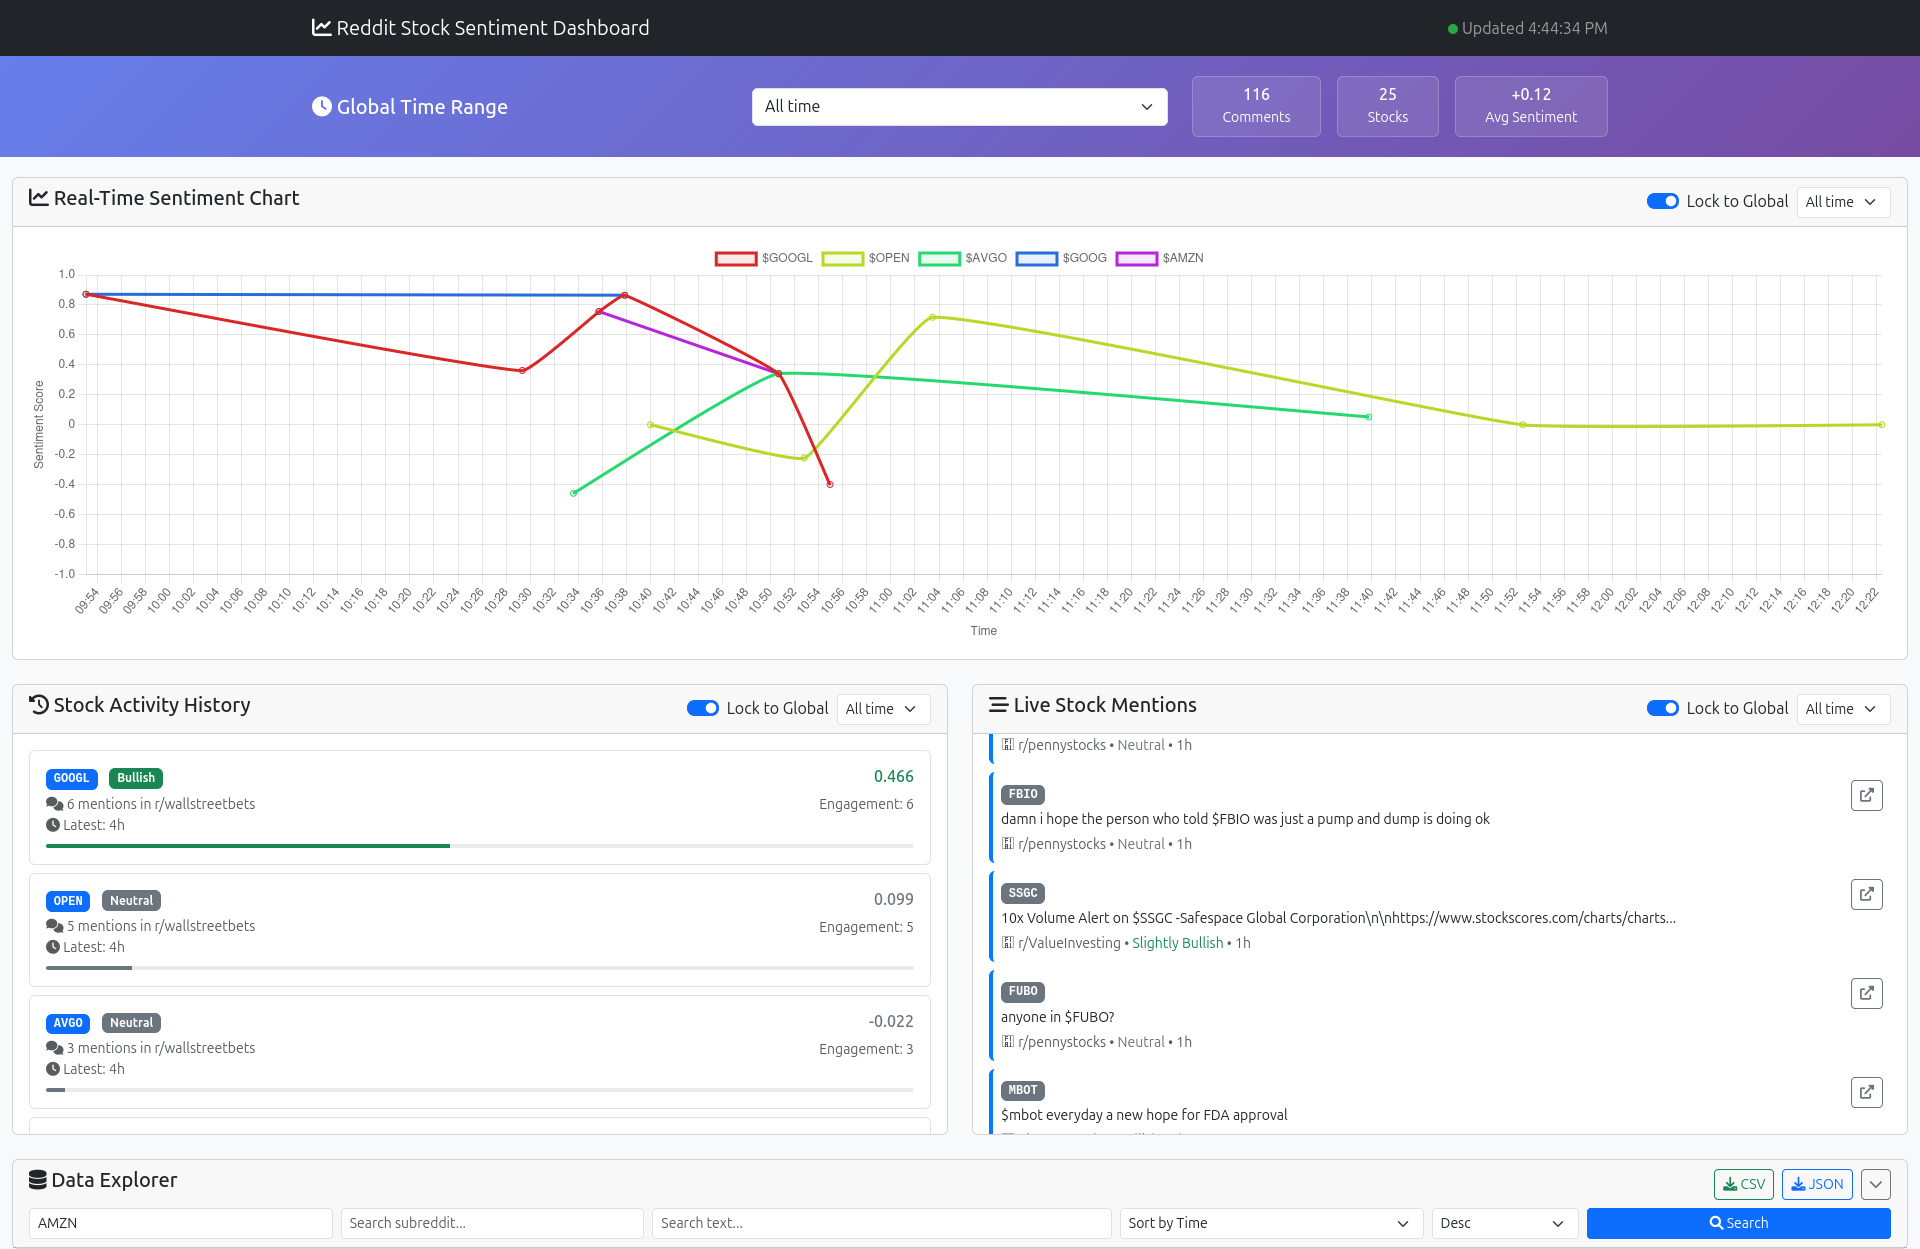
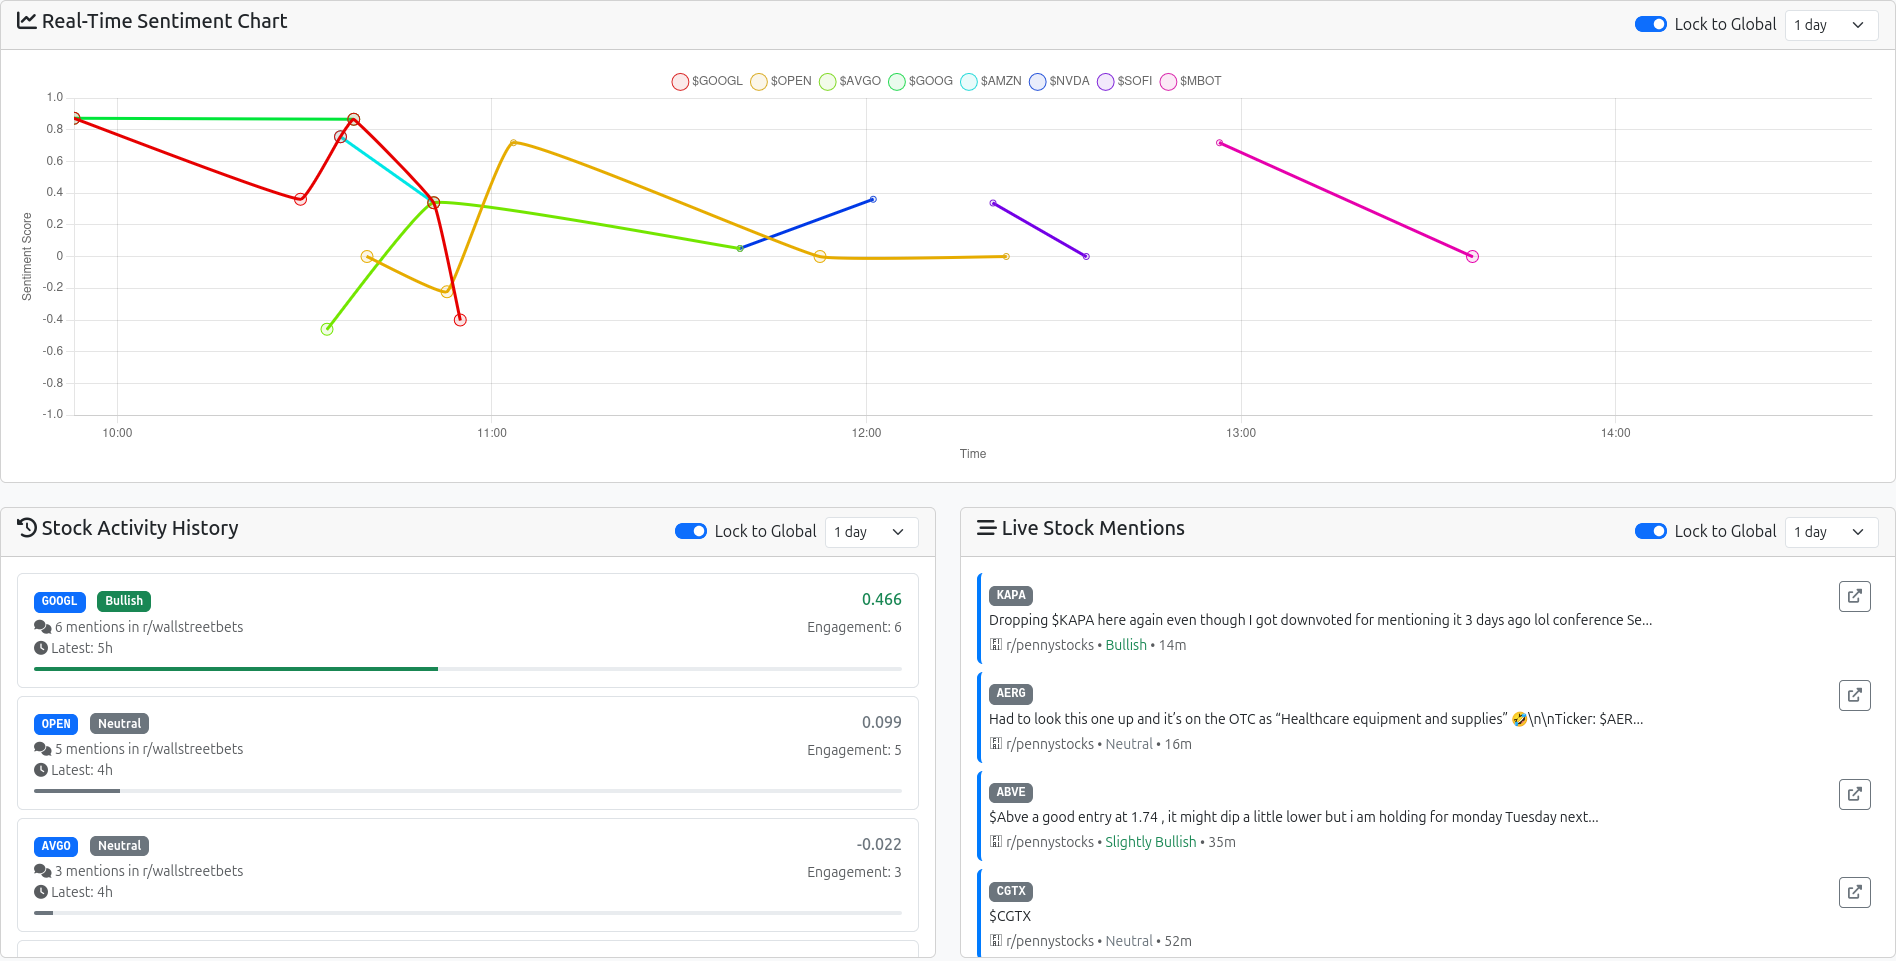
update

diff --git a/flask-dashboard/templates/index.html b/flask-dashboard/templates/index.html
@@ -527,14 +527,27 @@
         }
 
         function loadChartData(timeRange = '1h') {
-            const url = `${endpoints.chart}?range=${timeRange}`;
-            fetch(url)
+            // Add cache-busting timestamp to force fresh data
+            const timestamp = new Date().getTime();
+            const url = `${endpoints.chart}?range=${timeRange}&_t=${timestamp}`;
+            
+            console.log('Loading chart data for range:', timeRange);
+            
+            fetch(url, { 
+                cache: 'no-cache',
+                headers: {
+                    'Cache-Control': 'no-cache',
+                    'Pragma': 'no-cache'
+                }
+            })
                 .then(response => response.json())
                 .then(data => {
                     if (data.error) {
                         console.error('Chart data error:', data.error);
                         return;
                     }
+                    console.log('Received chart data points:', data.chart_data.length);
+                    console.log('Latest data points:', data.chart_data.slice(-5).map(p => `${p.ticker} at ${p.timestamp}`));
                     updateChart(data.chart_data || []);
                 })
                 .catch(error => {
@@ -561,12 +574,7 @@
                                     day: 'MM/DD'
                                 }
                             },
-                            title: { display: true, text: 'Time' },
-                            adapters: {
-                                date: {
-                                    locale: 'en'
-                                }
-                            }
+                            title: { display: true, text: 'Time' }
                         },
                         y: {
                             title: { display: true, text: 'Sentiment Score' },
@@ -625,6 +633,8 @@
             let minTime = null;
             let maxTime = null;
 
+            console.log('Processing chart data points:', chartData.length);
+
             chartData.forEach(point => {
                 if (!tickerData[point.ticker]) {
                     tickerData[point.ticker] = [];
@@ -643,10 +653,30 @@
                 });
             });
 
-            // Show top 8 tickers instead of 5 for better representation
-            const sortedTickers = Object.keys(tickerData)
-                .sort((a, b) => tickerData[b].length - tickerData[a].length)
-                .slice(0, 8);
+            console.log('Tickers found:', Object.keys(tickerData));
+
+            // Get most mentioned tickers (by count)
+            const byMentions = Object.keys(tickerData)
+                .sort((a, b) => tickerData[b].length - tickerData[a].length);
+            
+            // Get most recent tickers (by latest timestamp)
+            const byRecency = Object.keys(tickerData)
+                .sort((a, b) => {
+                    const latestA = Math.max(...tickerData[a].map(p => p.x.getTime()));
+                    const latestB = Math.max(...tickerData[b].map(p => p.x.getTime()));
+                    return latestB - latestA;
+                });
+            
+            // Combine: show top 5 by mentions + top 5 recent (remove duplicates)
+            const selectedTickers = new Set();
+            byMentions.slice(0, 5).forEach(t => selectedTickers.add(t));
+            byRecency.slice(0, 5).forEach(t => selectedTickers.add(t));
+            
+            const sortedTickers = Array.from(selectedTickers).slice(0, 10);
+            
+            console.log('Most mentioned tickers:', byMentions.slice(0, 5));
+            console.log('Most recent tickers:', byRecency.slice(0, 5));
+            console.log('Selected tickers for chart:', sortedTickers);
 
             const datasets = sortedTickers.map((ticker, index) => {
                 const hue = (index * 45) % 360;
